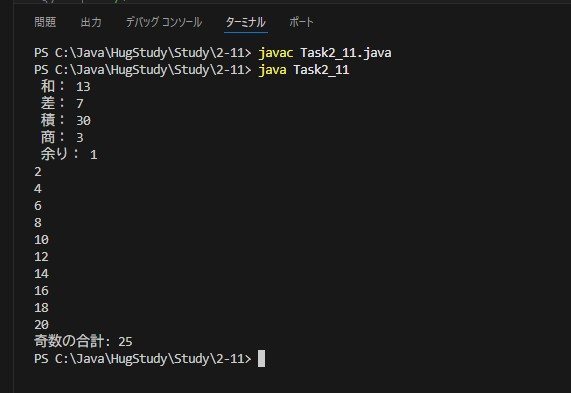
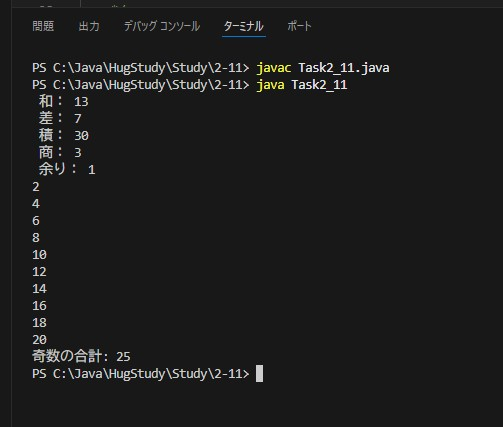
2-11修正

diff --git a/Study/2-11/Task2_11.java b/Study/2-11/Task2_11.java
@@ -29,7 +29,8 @@ public class Task2_11 {
     System.out.println(" 積： " + (a * b) );
     System.out.println(" 商： " + (a / b) ); 
     System.out.println(" 余り： " + (a % b) );
-
+    
+    
     
 
 
@@ -39,11 +40,11 @@ public class Task2_11 {
     * int型の配列を宣言し、1から20までの偶数を格納して、ループを使用してそれらの整数を順番に表示して下さい。
     */
 
-    for(int i = 1; i <= 20; i++){
-        if(i % 2 == 0){
-                System.out.println(i);
+    int[] n = {2, 4, 6, 8, 10, 12, 14, 16, 18, 20};
+        for(int j = 0; j < n.length; j++){
+            System.out.println(n[j]);
         }
-    }
+    
 
     /*
     * int型の配列「numbers」内の奇数の合計を、メソッド「sumOddNumbers」を使って表示して下さい。
@@ -58,6 +59,7 @@ public class Task2_11 {
     int add = 0;
 
     for (int i = 0; i < numbers.length; i++) {
+
     //問題③ 奇数かどうかの判定をするために、for文で取得したnumberを2で割り、余りが0にならないような条件文(if文)を記載して下さい。
         if(i % 2 == 0){
         add += numbers[i];
@@ -65,5 +67,6 @@ public class Task2_11 {
     }
     return add;
     }
-}
+    }
+
 
